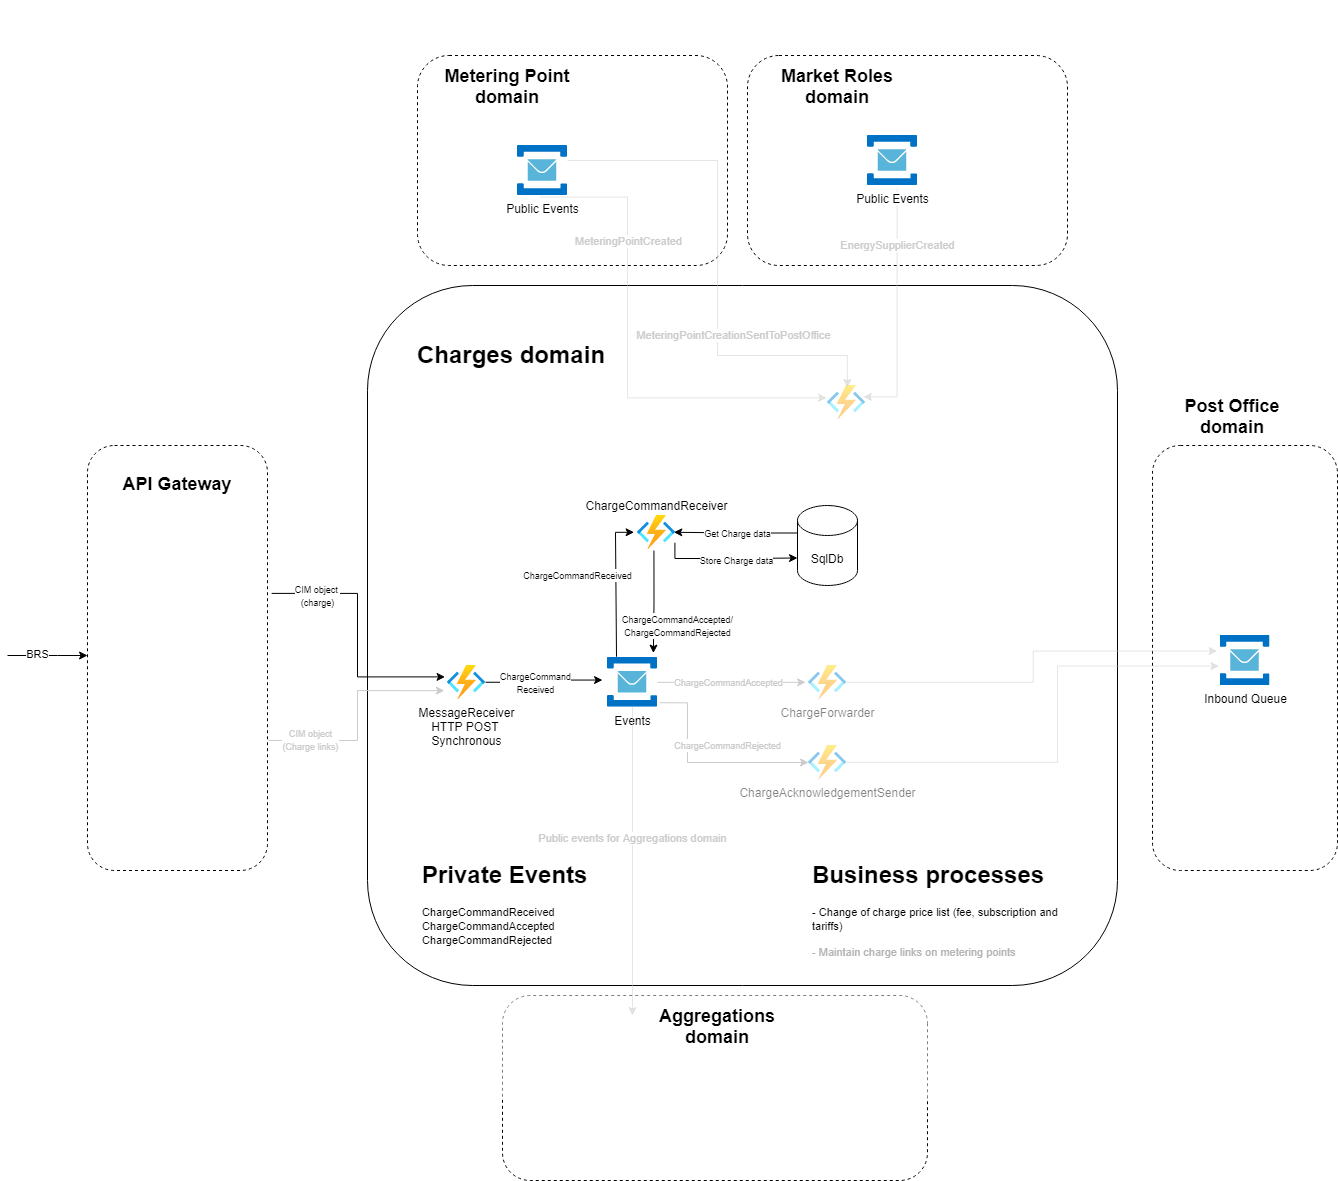
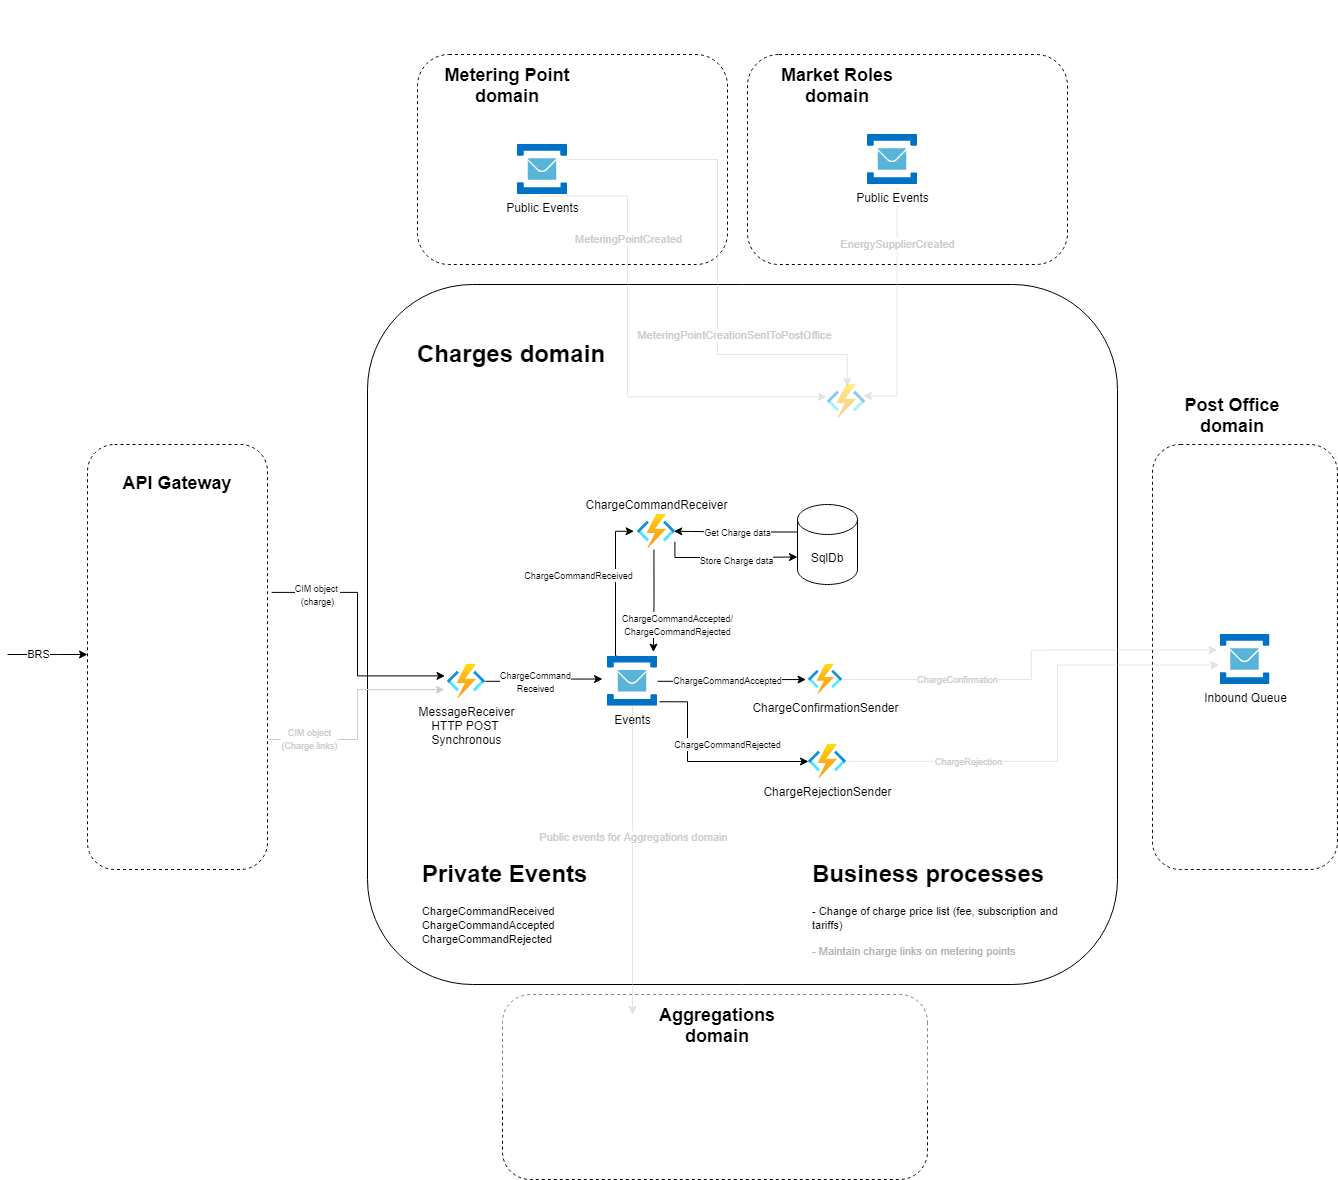
Updated arch diagram and added text to README

diff --git a/README.md b/README.md
@@ -34,6 +34,8 @@ The architecture diagram below illustrates both current state of the Charges dom
 
 ![design](ARCHITECTURE.png)
 
+Note: As the integration between the Charges and Post Office domains is yet to be established, the `ChargeConfirmation` and `ChargeRejection` events are temporarily placed in the Charges domain's Service Bus.
+
 ## Context Streams
 
 TODO: Awaiting drawing from `@MartinFHansen`.
